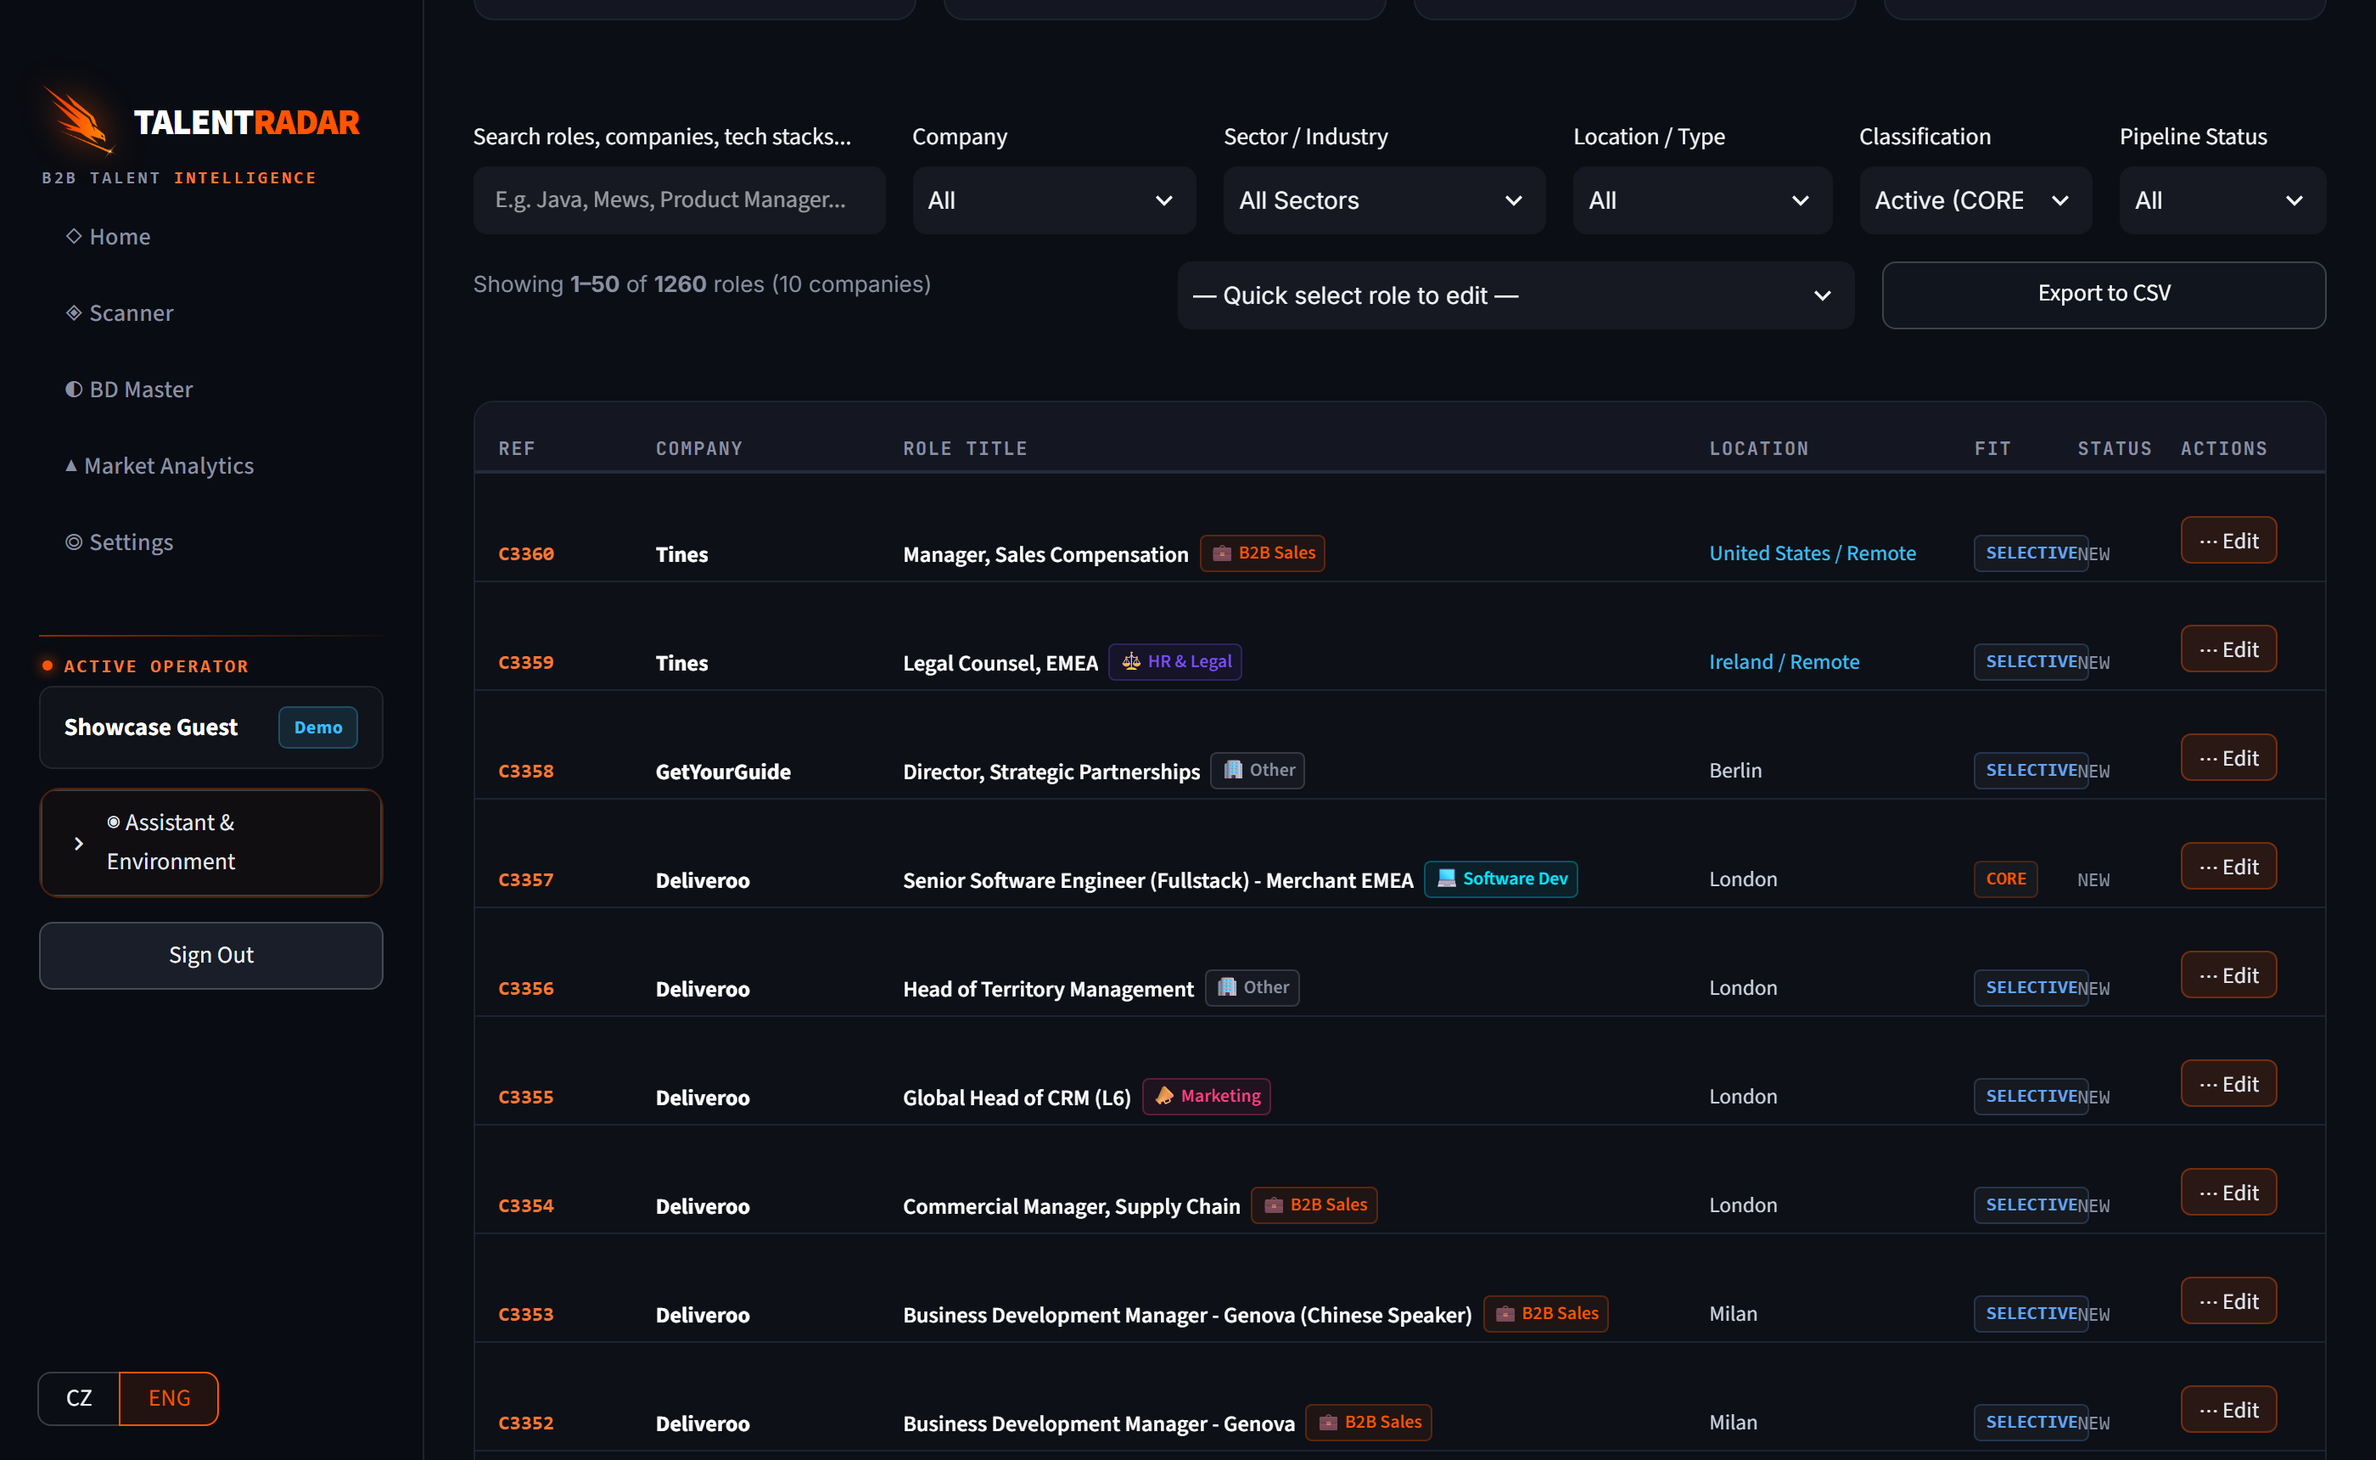
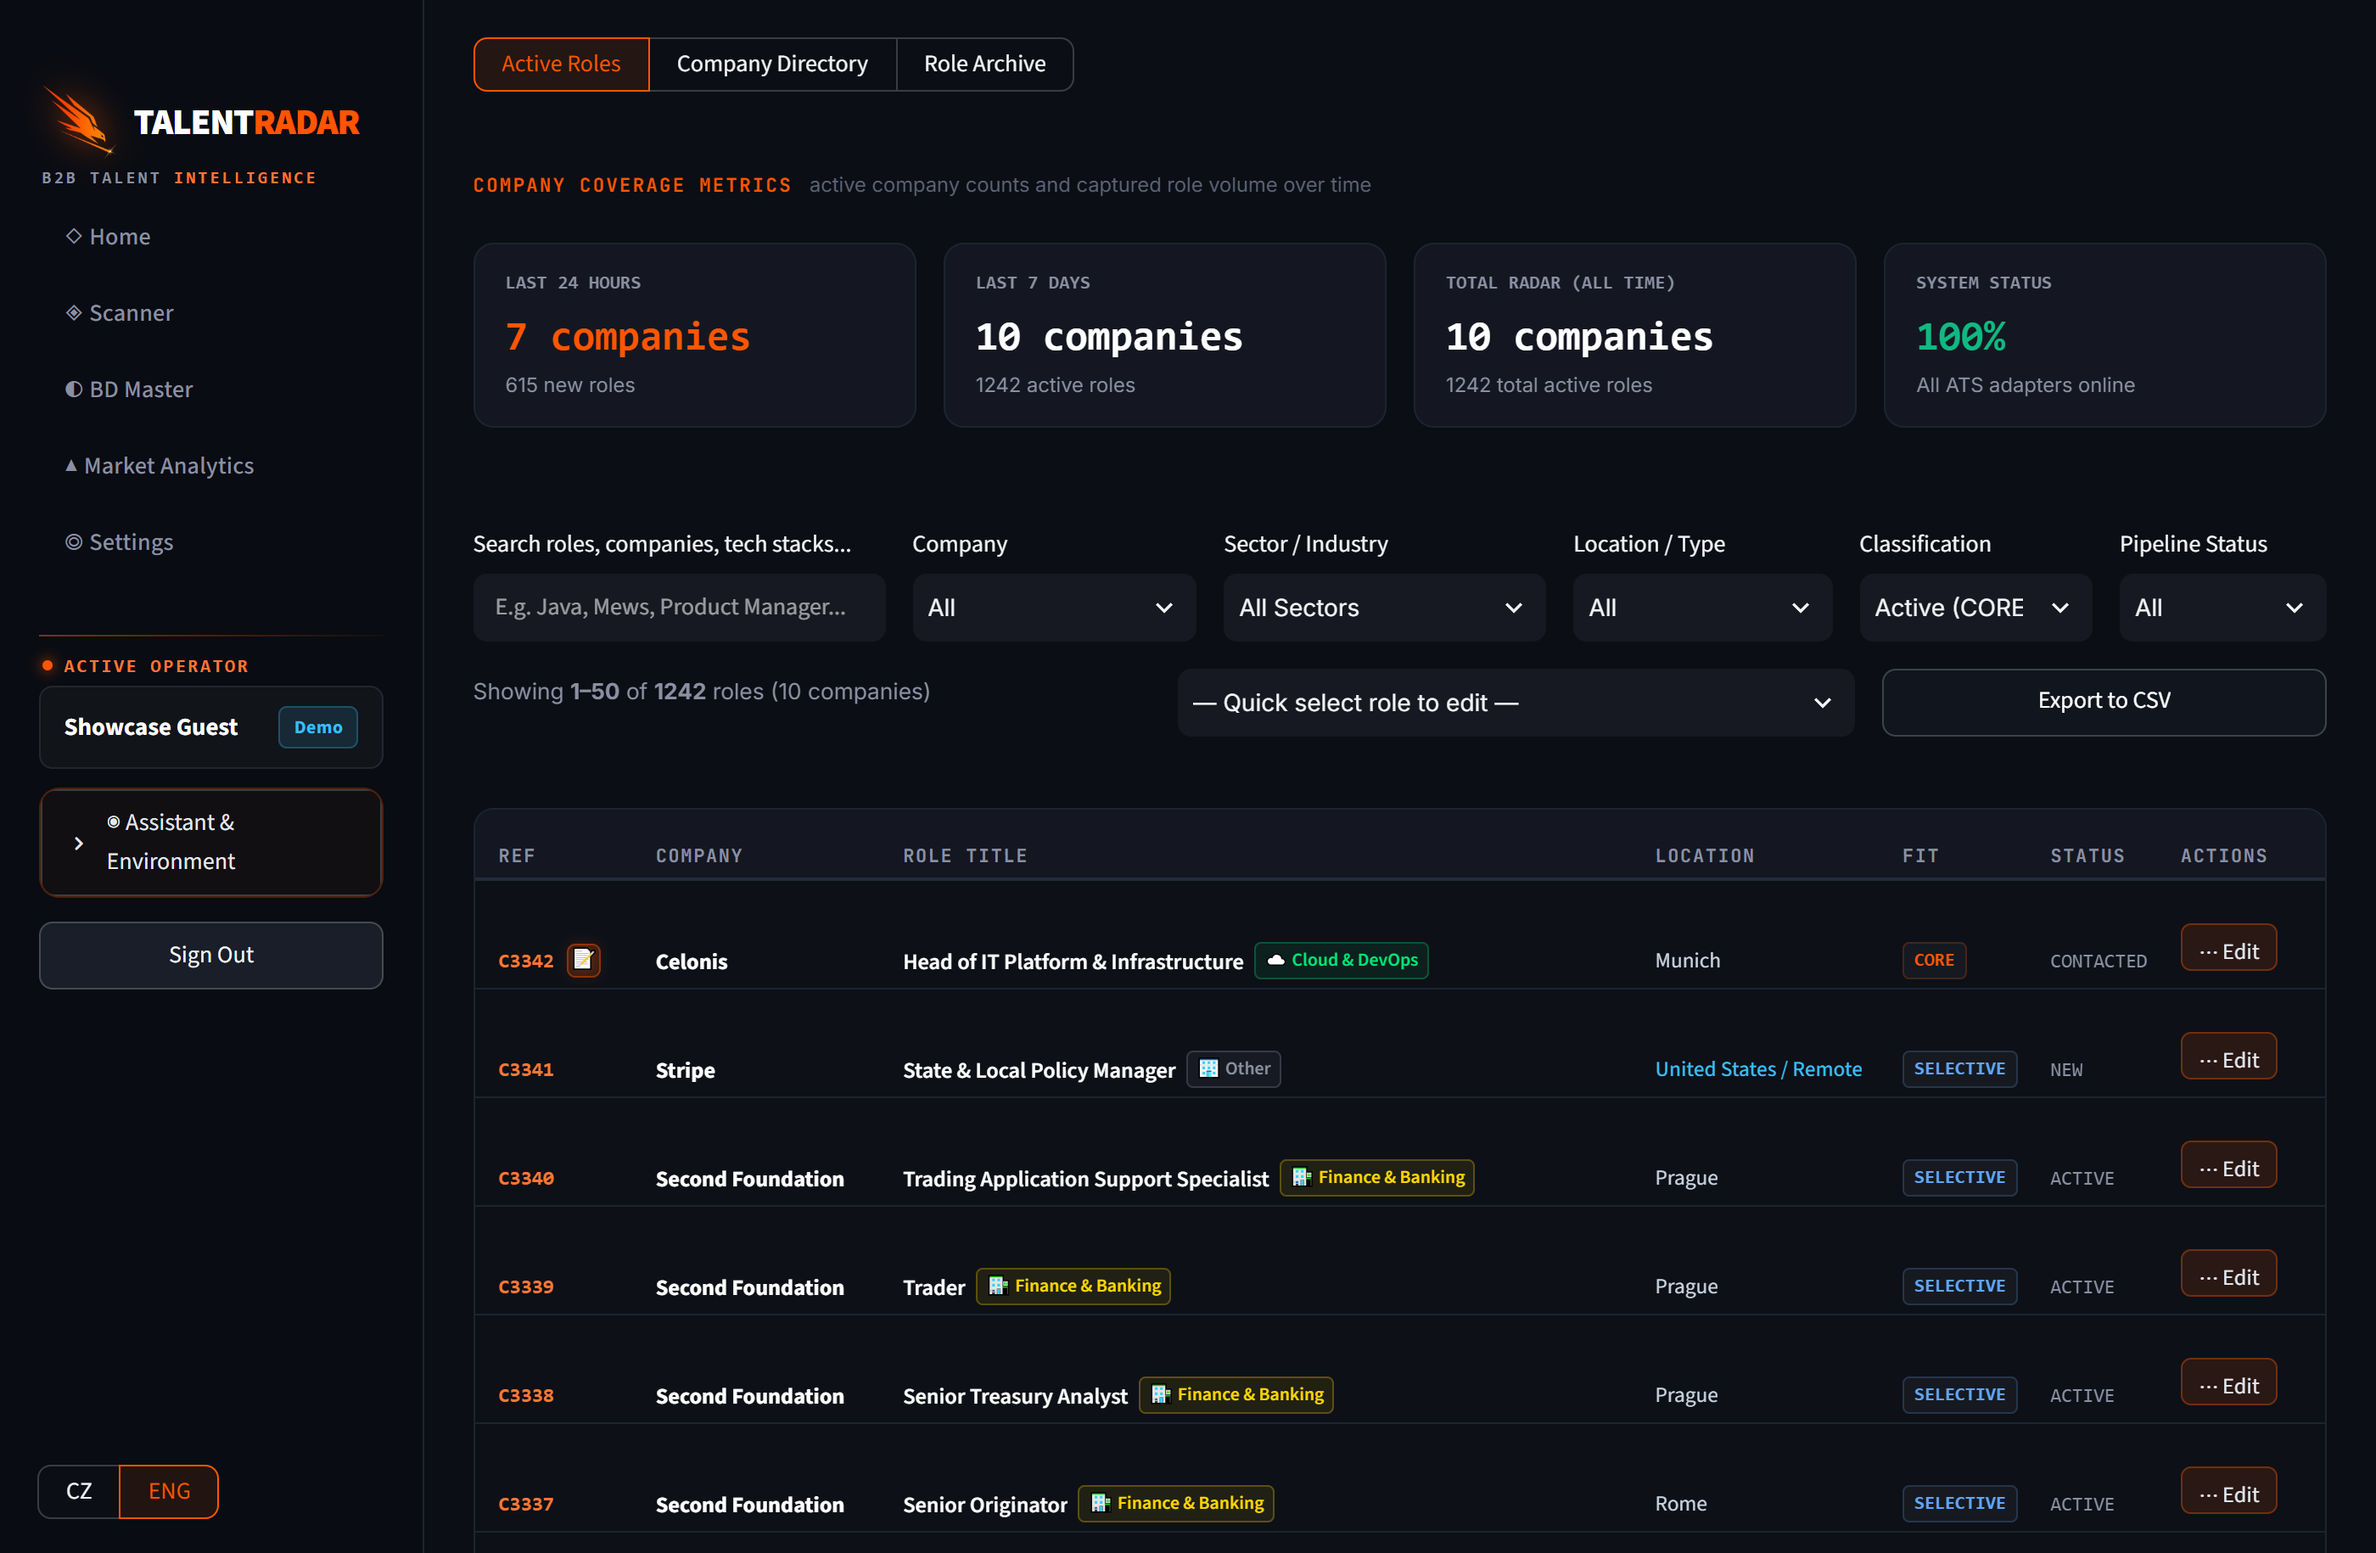
feat(marketing): update high-res screenshots and add interactive AI vs Notes tab switcher in Step 3

diff --git a/index.html b/index.html
@@ -564,16 +564,33 @@
           </div>
         </div>
         <div class="rounded-xl overflow-hidden border border-[rgba(255,255,255,0.12)] shadow-2xl bg-[#0A0D14]">
-          <div class="px-4 py-2.5 bg-[#111622] border-b border-[rgba(255,255,255,0.08)] flex items-center justify-between">
+          <div class="px-4 py-2.5 bg-[#111622] border-b border-[rgba(255,255,255,0.08)] flex flex-wrap items-center justify-between gap-3">
             <div class="flex items-center gap-2">
               <span class="w-3 h-3 rounded-full bg-[#FF5F56]/80"></span>
               <span class="w-3 h-3 rounded-full bg-[#FFBD2E]/80"></span>
               <span class="w-3 h-3 rounded-full bg-[#27C93F]/80"></span>
               <span class="ml-2 text-[11px] font-mono text-slate-400 bg-[#0A0D14] px-3 py-0.5 rounded border border-white/5">app.talentradar.eu — Role Intelligence Modal</span>
             </div>
+
+            <!-- Interactive Tab Switcher -->
+            <div class="flex items-center gap-1.5 bg-[#0A0D14] p-1 rounded-lg border border-white/10 text-xs">
+              <button id="step3-tab-ai" onclick="switchStep3ModalView('ai')" class="px-3 py-1 rounded font-semibold transition flex items-center gap-1.5 bg-[#FF6B00] text-white shadow-sm cursor-pointer">
+                <span>⚡</span>
+                <span data-i18n="how_step3_tab_ai">AI Executive Digest</span>
+              </button>
+              <button id="step3-tab-notes" onclick="switchStep3ModalView('notes')" class="px-3 py-1 rounded font-semibold transition flex items-center gap-1.5 text-slate-400 hover:text-white cursor-pointer">
+                <span>📝</span>
+                <span data-i18n="how_step3_tab_notes">Notes &amp; Pipeline</span>
+              </button>
+            </div>
+
             <a href="https://app.talentradar.eu/?demo=showcase&page=bd_master&lang=en" target="_blank" rel="noopener noreferrer" class="text-[11px] text-[#FFA366] hover:text-white font-semibold transition hidden sm:inline-flex items-center gap-1">Open Live Demo ↗</a>
           </div>
-          <img src="img/screenshot-3.png" alt="TalentRadar role detail and notes" loading="lazy" class="w-full h-auto object-cover" />
+
+          <div class="relative">
+            <img id="step3-img-ai" src="img/screenshot-3.png" alt="TalentRadar AI executive digest &amp; BD outreach pitch hook" loading="lazy" class="w-full h-auto object-cover transition-opacity duration-200" />
+            <img id="step3-img-notes" src="img/screenshot-3-notes.png" alt="TalentRadar internal recruiter notes and pipeline tracking" loading="lazy" class="w-full h-auto object-cover hidden transition-opacity duration-200" />
+          </div>
         </div>
       </div>
 
@@ -1544,6 +1561,27 @@
         );
       });
     });
+
+    /* ── 8. Step 3 Interactive Modal View Switcher ── */
+    function switchStep3ModalView(view) {
+      const btnAi = document.getElementById('step3-tab-ai');
+      const btnNotes = document.getElementById('step3-tab-notes');
+      const imgAi = document.getElementById('step3-img-ai');
+      const imgNotes = document.getElementById('step3-img-notes');
+      if (!btnAi || !btnNotes || !imgAi || !imgNotes) return;
+
+      if (view === 'ai') {
+        btnAi.className = 'px-3 py-1 rounded font-semibold transition flex items-center gap-1.5 bg-[#FF6B00] text-white shadow-sm cursor-pointer';
+        btnNotes.className = 'px-3 py-1 rounded font-semibold transition flex items-center gap-1.5 text-slate-400 hover:text-white cursor-pointer';
+        imgAi.classList.remove('hidden');
+        imgNotes.classList.add('hidden');
+      } else {
+        btnNotes.className = 'px-3 py-1 rounded font-semibold transition flex items-center gap-1.5 bg-[#FF6B00] text-white shadow-sm cursor-pointer';
+        btnAi.className = 'px-3 py-1 rounded font-semibold transition flex items-center gap-1.5 text-slate-400 hover:text-white cursor-pointer';
+        imgNotes.classList.remove('hidden');
+        imgAi.classList.add('hidden');
+      }
+    }
   </script>
 
 </body>

diff --git a/js/translations.js b/js/translations.js
@@ -64,6 +64,8 @@ const TRANSLATIONS = {
     how_step3_title: "3. AI shrnutí & pipeline zakázek (Plná náhrada Excelu)",
     how_step3_body: "Rozklikněte si jakoukoliv roli pro okamžité AI shrnutí, klíčové požadavky a připravené prodejní úhly pro oslovení klienta. Přímo u pozice si veďte interní poznámky a stav oslovení — bez nutnosti řešit tabulky.",
     how_step3_tip: "Věnujte čas uzavírání, ne hledání: kompletní náhrada Excelu s připravenými prodejními argumenty ještě před zavoláním hiring managerovi.",
+    how_step3_tab_ai: "⚡ AI Manažerský výcuc",
+    how_step3_tab_notes: "📝 Poznámky & Pipeline",
     how_onboarding_title: "Nulové tření — 100% asynchronní onboarding",
     how_onboarding_body: "Nahrajte seznam vašich klientů v CSV nebo Excel souboru při registraci. Náš engine indexuje cílové účty a ATS kariérní stránky do 24 hodin. Žádné konfigurační hovory nejsou nutné.",
 
